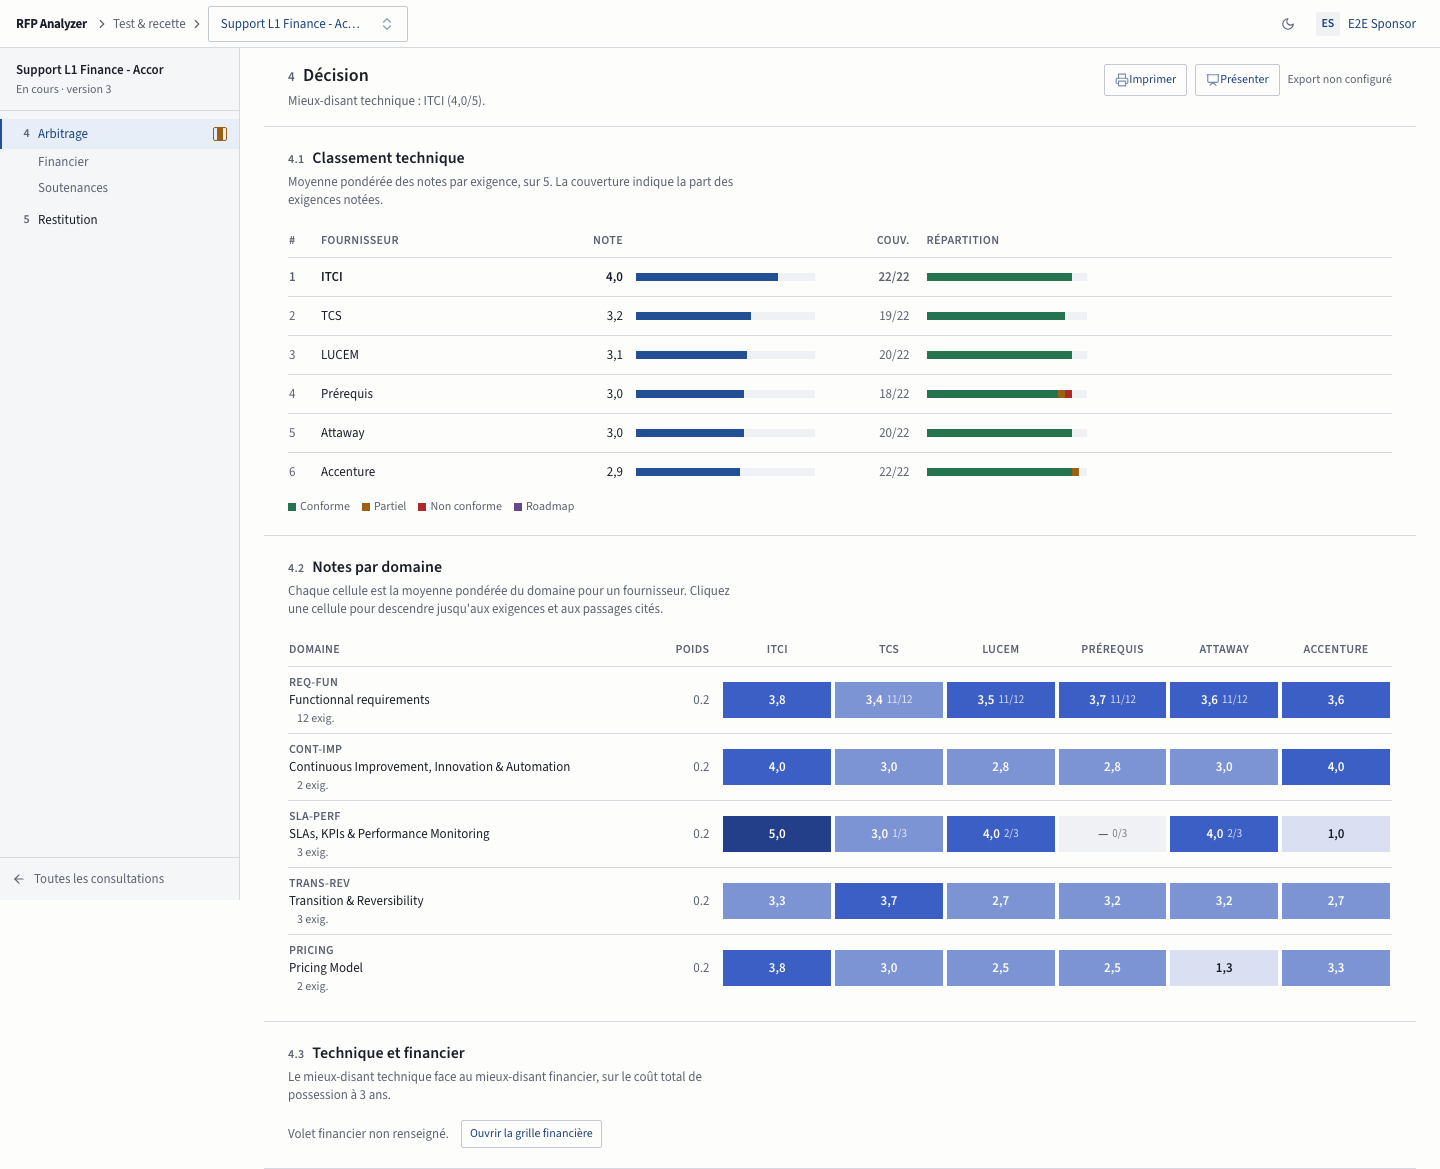
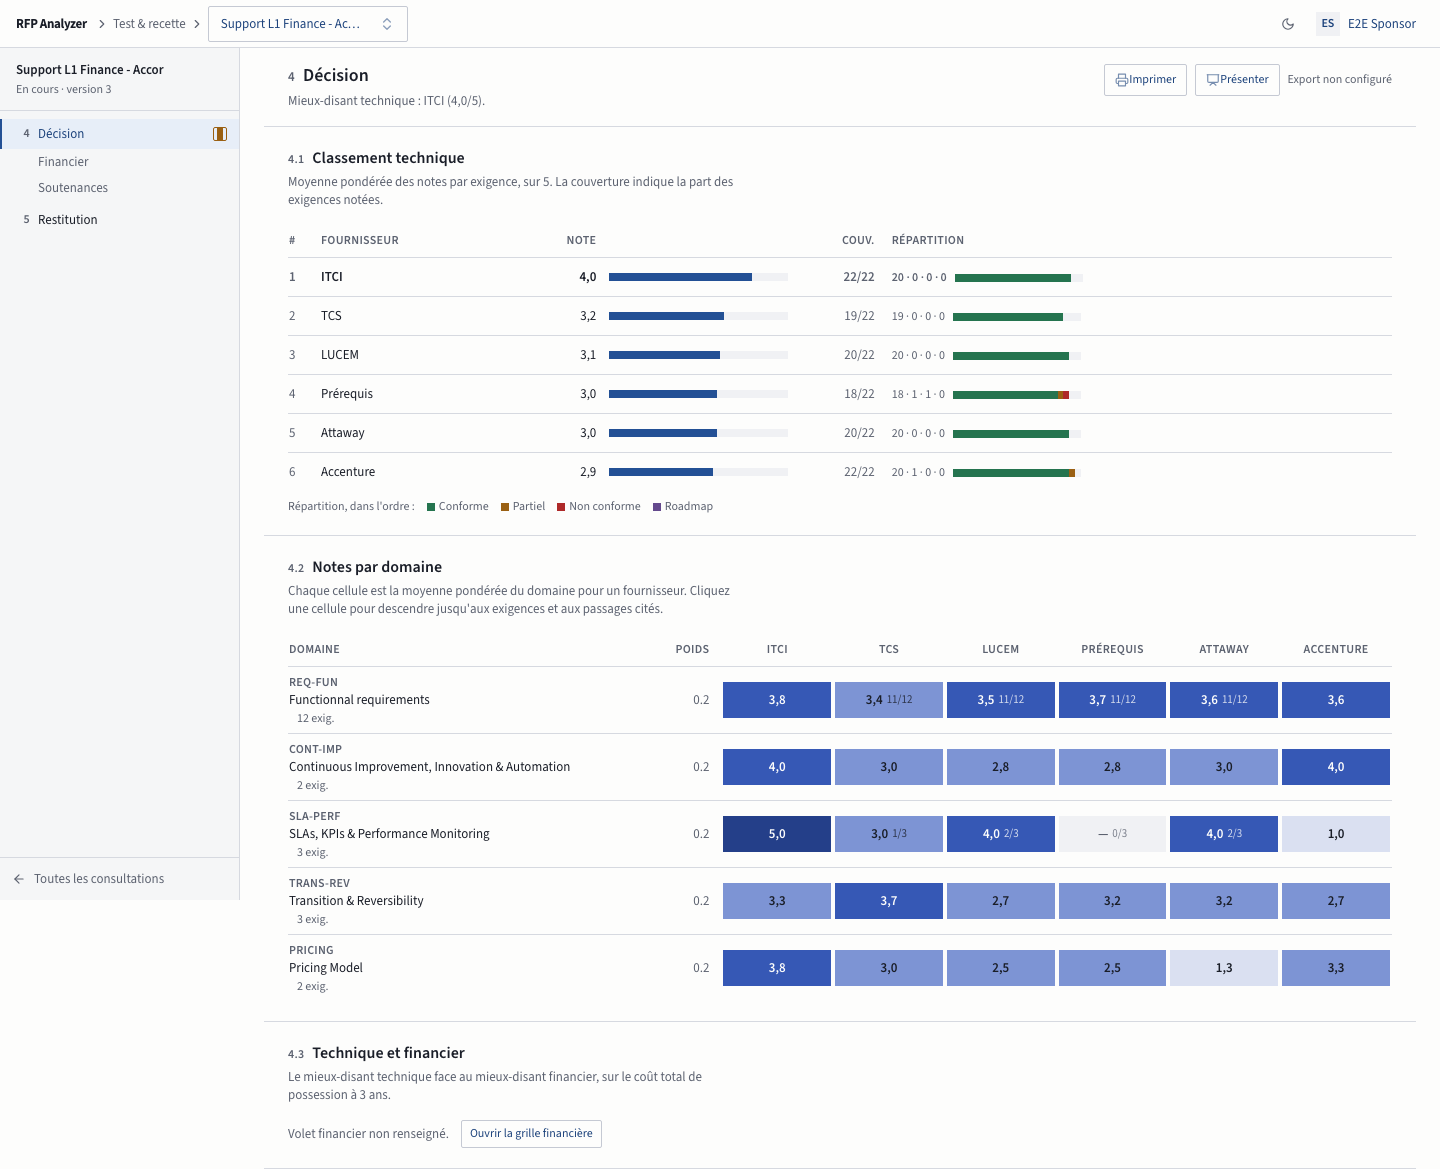
refonte(ui): revue de finition — renvoi sur la note, fond sombre charbon, contraste heatmap, accueil mobile, répartition lisible sans couleur

diff --git a/components/evaluation/ResponseColumn.tsx b/components/evaluation/ResponseColumn.tsx
@@ -23,6 +23,7 @@ import {
   DropdownMenuItem,
   DropdownMenuTrigger,
 } from "@/components/ui/dropdown-menu";
+import { HoverCard, HoverCardContent, HoverCardTrigger } from "@/components/ui/hover-card";
 import { ScoreControl } from "@/components/evaluation/ScoreControl";
 import { StatusStamp } from "@/components/evaluation/StatusStamp";
 import { AudioRecorder } from "@/components/AudioRecorder";
@@ -206,13 +207,50 @@ export function ResponseColumn({
       {/* En-tête : fournisseur, note, tampon */}
       <header className="flex items-center gap-2 border-b border-border px-3 py-2">
         <h3 className="min-w-0 flex-1 truncate text-sm font-semibold">{response.supplier.name}</h3>
-        <span
-          className={cn("tnum text-lg font-semibold leading-none", score === null && "text-muted-foreground")}
-          aria-label={`Note ${formatScore(score)} sur 5${isManual ? ", manuelle" : ", IA"}`}
-        >
-          {formatScore(score)}
-          <span className="text-xs font-normal text-muted-foreground">/5</span>
-        </span>
+        <HoverCard openDelay={150} closeDelay={80}>
+          <HoverCardTrigger asChild>
+            <button
+              type="button"
+              onClick={() => {
+                const first = bookmarks[0];
+                if (first) onOpenBookmark(first);
+                else if (!noDocs) onOpenDocuments(response.supplier_id);
+              }}
+              disabled={noDocs && bookmarks.length === 0}
+              className={cn(
+                "tnum rounded-sm text-lg font-semibold leading-none underline decoration-border decoration-1 underline-offset-4 transition-colors duration-150 hover:decoration-primary focus-visible:outline-none focus-visible:ring-2 focus-visible:ring-ring disabled:no-underline",
+                score === null && "text-muted-foreground"
+              )}
+              aria-label={`Note ${formatScore(score)} sur 5${isManual ? ", manuelle" : ", IA"}. Ouvrir la preuve dans le document`}
+            >
+              {formatScore(score)}
+              <span className="text-xs font-normal text-muted-foreground">/5</span>
+            </button>
+          </HoverCardTrigger>
+          <HoverCardContent align="end" className="w-72 p-3 text-xs">
+            {bookmarks.length > 0 ? (
+              <>
+                <p className="font-semibold">
+                  {(bookmarks[0] as PDFAnnotation & { documentName?: string }).documentName ?? "Document"} · p. {bookmarks[0].pageNumber}
+                </p>
+                {bookmarks[0].highlightedText && (
+                  <p className="mt-1 text-muted-foreground">« {bookmarks[0].highlightedText} »</p>
+                )}
+                {bookmarks.length > 1 && (
+                  <p className="mt-1 text-muted-foreground">{bookmarks.length - 1} autre{bookmarks.length > 2 ? "s" : ""} passage{bookmarks.length > 2 ? "s" : ""} cité{bookmarks.length > 2 ? "s" : ""}</p>
+                )}
+                <p className="mt-1 text-accent-foreground">Cliquer pour ouvrir à la page</p>
+              </>
+            ) : (
+              <>
+                <p className="font-semibold">Aucun passage cité</p>
+                <p className="mt-1 text-muted-foreground">
+                  {noDocs ? "Ce fournisseur n'a déposé aucun document." : "Cliquer pour ouvrir les documents du fournisseur et poser un signet."}
+                </p>
+              </>
+            )}
+          </HoverCardContent>
+        </HoverCard>
         {canEdit ? (
           <DropdownMenu>
             <DropdownMenuTrigger asChild>

diff --git a/components/decision/DecisionView.tsx b/components/decision/DecisionView.tsx
@@ -256,7 +256,10 @@ export function DecisionView({ rfpId }: { rfpId: string }) {
                     </td>
                     <td className="tnum py-2.5 text-right text-muted-foreground">{s.scored}/{s.total}</td>
                     <td className="hidden py-2.5 pl-4 md:table-cell">
-                      <span className="flex h-2 w-40 overflow-hidden rounded-sm bg-muted" aria-label={(["pass", "partial", "fail", "roadmap"] as ResponseStatus[]).map((k) => `${STATUS_META[k].label} ${s.statuses[k]}`).join(", ")}>
+                      <span className="tnum mr-2 text-xs text-muted-foreground" aria-hidden>
+                        {(["pass", "partial", "fail", "roadmap"] as ResponseStatus[]).map((k) => s.statuses[k]).join(" · ")}
+                      </span>
+                      <span className="inline-flex h-2 w-32 overflow-hidden rounded-sm bg-muted align-middle" aria-label={(["pass", "partial", "fail", "roadmap"] as ResponseStatus[]).map((k) => `${STATUS_META[k].label} ${s.statuses[k]}`).join(", ")}>
                         {(["pass", "partial", "fail", "roadmap"] as ResponseStatus[]).map((k) => (
                           <span
                             key={k}
@@ -273,6 +276,7 @@ export function DecisionView({ rfpId }: { rfpId: string }) {
           </table>
         </div>
         <p className="mt-2 hidden flex-wrap gap-3 text-xs text-muted-foreground md:flex">
+          <span>Répartition, dans l'ordre :</span>
           {(["pass", "partial", "fail", "roadmap"] as ResponseStatus[]).map((k) => (
             <span key={k} className="inline-flex items-center gap-1">
               <span className={cn("inline-block h-2 w-2 rounded-sm", k === "pass" && "bg-status-pass", k === "partial" && "bg-status-partial", k === "fail" && "bg-status-fail", k === "roadmap" && "bg-status-roadmap")} />

diff --git a/styles/globals.css b/styles/globals.css
@@ -54,7 +54,7 @@
     --scale-1: 224 45% 90%;
     --scale-2: 224 48% 80%;
     --scale-3: 224 50% 66%;
-    --scale-4: 224 54% 50%;
+    --scale-4: 224 54% 46%;
     --scale-5: 224 58% 34%;
 
     --chart-1: 224 58% 34%;
@@ -67,28 +67,28 @@
   }
 
   .dark {
-    --background: 222 16% 9%;
-    --foreground: 220 12% 92%;
-    --card: 222 16% 9%;
-    --card-foreground: 220 12% 92%;
-    --popover: 222 16% 12%;
-    --popover-foreground: 220 12% 92%;
+    --background: 220 4% 9%;
+    --foreground: 220 6% 92%;
+    --card: 220 4% 9%;
+    --card-foreground: 220 6% 92%;
+    --popover: 220 4% 12%;
+    --popover-foreground: 220 6% 92%;
 
     --primary: 214 72% 74%;
     --primary-foreground: 222 30% 10%;
 
-    --secondary: 222 14% 14%;
-    --secondary-foreground: 220 12% 92%;
-    --muted: 222 14% 14%;
-    --muted-foreground: 220 8% 66%;
-    --accent: 222 36% 20%;
-    --accent-foreground: 222 70% 80%;
+    --secondary: 220 4% 14%;
+    --secondary-foreground: 220 6% 92%;
+    --muted: 220 4% 14%;
+    --muted-foreground: 220 4% 66%;
+    --accent: 216 30% 20%;
+    --accent-foreground: 214 70% 80%;
 
     --destructive: 0 60% 62%;
     --destructive-foreground: 0 0% 10%;
 
-    --border: 222 12% 22%;
-    --input: 222 12% 28%;
+    --border: 220 4% 22%;
+    --input: 220 4% 30%;
     --ring: 214 72% 74%;
 
     --status-pass: 152 45% 62%;
@@ -99,10 +99,10 @@
     --status-fail-soft: 0 35% 17%;
     --status-roadmap: 264 45% 74%;
     --status-roadmap-soft: 264 25% 18%;
-    --status-pending: 220 8% 62%;
-    --status-pending-soft: 222 12% 16%;
+    --status-pending: 220 4% 62%;
+    --status-pending-soft: 220 4% 16%;
 
-    --scale-0: 222 14% 14%;
+    --scale-0: 220 4% 14%;
     --scale-1: 224 30% 22%;
     --scale-2: 224 40% 32%;
     --scale-3: 224 50% 44%;

diff --git a/components/decision/DrillDown.tsx b/components/decision/DrillDown.tsx
@@ -196,11 +196,15 @@ export function DrillDown({ rfpId, versionId, target, onClose, responsesOf, weig
                       {bookmarks.length === 0 ? (
                         <div className="flex flex-wrap items-center gap-2 text-sm text-muted-foreground">
                           <span>Aucun passage cité.</span>
-                          {response.supplier.has_documents !== false && (
-                            <Button variant="outline" size="xs" onClick={() => onOpenDocument(target.supplier.id, null, null)}>
-                              <FileText className="h-3.5 w-3.5" /> Ouvrir les documents
-                            </Button>
-                          )}
+                          <Button
+                            variant="outline"
+                            size="xs"
+                            disabled={response.supplier.has_documents === false}
+                            title={response.supplier.has_documents === false ? "Ce fournisseur n'a déposé aucun document" : undefined}
+                            onClick={() => onOpenDocument(target.supplier.id, null, null)}
+                          >
+                            <FileText className="h-3.5 w-3.5" /> Ouvrir les documents du fournisseur
+                          </Button>
                         </div>
                       ) : (
                         <ul className="space-y-1">

diff --git a/components/home/ConsultationsTable.tsx b/components/home/ConsultationsTable.tsx
@@ -34,10 +34,10 @@ function ProgressCell({ rfpId }: { rfpId: string }) {
   }
   const value = Math.round(percentage ?? 0);
   return (
-    <div className="flex items-center gap-2">
+    <div className="flex items-center gap-2 whitespace-nowrap">
       <span
         aria-hidden
-        className="h-1.5 w-16 overflow-hidden rounded-sm bg-muted"
+        className="hidden h-1.5 w-16 overflow-hidden rounded-sm bg-muted md:block"
       >
         <span
           className="block h-full bg-primary"
@@ -168,7 +168,7 @@ export function ConsultationsTable({
                       )}
                     </td>
                     <td className="px-3 py-2.5">
-                      <span className={cn("stamp", status.className)}>{status.label}</span>
+                      <span className={cn("stamp whitespace-nowrap", status.className)}>{status.label}</span>
                     </td>
                     <td className="px-3 py-2.5">
                       <ProgressCell rfpId={rfp.id} />

diff --git a/app/dashboard/rfp/[rfpId]/layout.tsx b/app/dashboard/rfp/[rfpId]/layout.tsx
@@ -80,10 +80,11 @@ export default function RfpLayout({ children }: { children: ReactNode }) {
               >
                 <Menu className="h-4 w-4" />
               </Button>
-              <span className="min-w-0 truncate text-sm font-medium">
-                {current
-                  ? `${current.number !== null ? `${current.number}. ` : ""}${current.label}`
-                  : (title ?? "")}
+              <span className="flex min-w-0 items-baseline gap-2 truncate text-sm font-medium">
+                {current?.number !== null && current?.number !== undefined && (
+                  <span className="article-no">{current.number}</span>
+                )}
+                <span className="truncate">{current ? current.label : (title ?? "")}</span>
               </span>
             </div>
           )}

diff --git a/components/preparation/PreparationHub.tsx b/components/preparation/PreparationHub.tsx
@@ -273,8 +273,8 @@ export function PreparationHub({ rfpId }: PreparationHubProps) {
       };
     }
     return {
-      title: "La préparation est complète",
-      detail: "Le référentiel, les fournisseurs et les réponses sont en place.",
+      title: "Prochaine action : ouvrir l'évaluation",
+      detail: "La préparation est complète : référentiel, fournisseurs et réponses sont en place.",
       action: { label: "Ouvrir l'évaluation", href: `/dashboard/rfp/${rfpId}/evaluate` },
     };
   }, [preparation, analysis, rfpId]);

diff --git a/lib/format.ts b/lib/format.ts
@@ -2,8 +2,7 @@
 
 export function formatDuration(seconds: number | null): string | null {
   if (seconds === null || !Number.isFinite(seconds)) return null;
-  if (seconds < 60) return "moins d'une minute";
-  const minutes = Math.round(seconds / 60);
+  const minutes = Math.max(1, Math.round(seconds / 60));
   if (minutes < 60) return `${minutes} min`;
   const hours = Math.floor(minutes / 60);
   const rest = minutes % 60;

diff --git a/lib/scoring.ts b/lib/scoring.ts
@@ -44,7 +44,7 @@ const SCALE_CLASSES = [
   "bg-scale-0 text-foreground",
   "bg-scale-1 text-foreground",
   "bg-scale-2 text-foreground",
-  "bg-scale-3 text-background",
+  "bg-scale-3 text-foreground",
   "bg-scale-4 text-background",
   "bg-scale-5 text-background",
 ];
